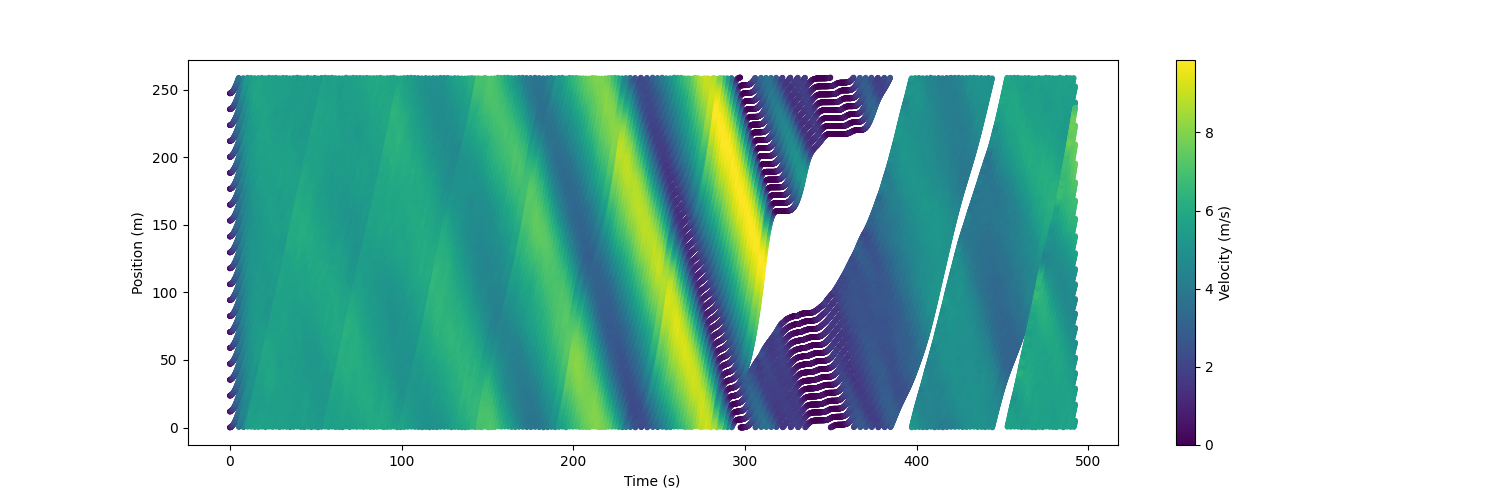
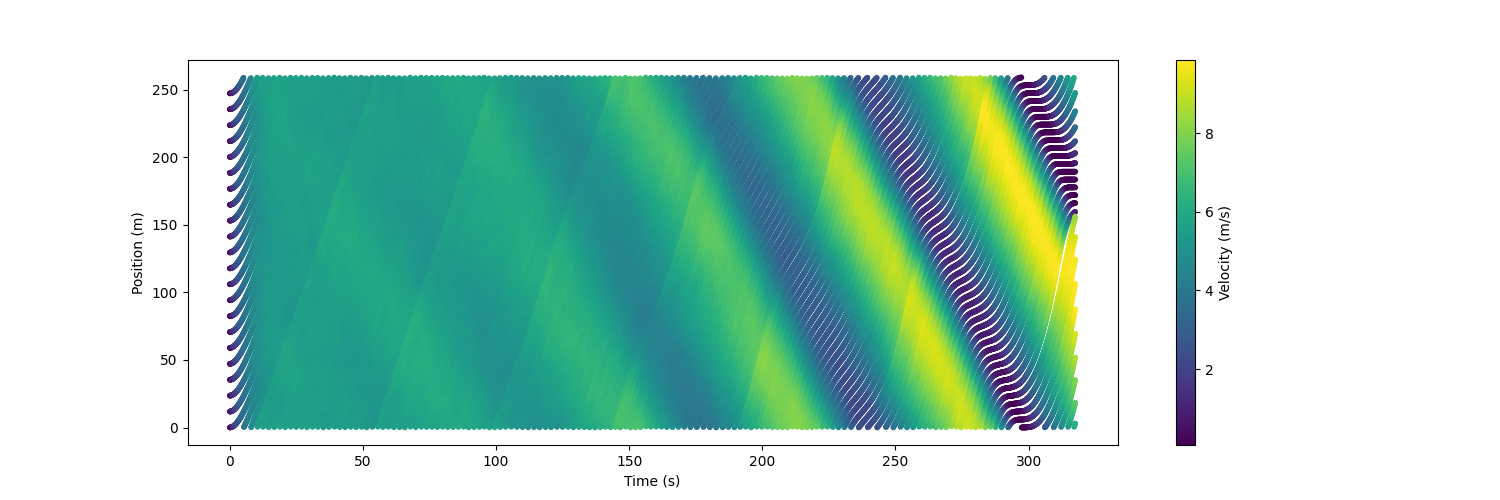
hyper params change

diff --git a/Ring_Road/metrics.py b/Ring_Road/metrics.py
@@ -107,7 +107,7 @@ class Metrics:
         elif self.env.algorithm == "ppo":
             plt.savefig("Plots/PPO/SpaceTimeSmoothed_New1.png")
         elif self.env.algorithm == "fs":
-            plt.savefig("Plots/FollowerStopper/SpaceTime_New1.png")
+            plt.savefig("Plots/FollowerStopper/SpaceTimeSmoothed_New1.png")
 
     def plot_velocities(self):
         plt.figure(figsize=(15, 5))
@@ -124,7 +124,7 @@ class Metrics:
         elif self.env.algorithm == "ppo":
             plt.savefig("Plots/PPO/VelocityProfileSmoothed_New1.png")
         elif self.env.algorithm == "fs":
-            plt.savefig("Plots/FollowerStopper/VelocityProfile_New1.png")
+            plt.savefig("Plots/FollowerStopper/VelocityProfileSmoothed_New1.png")
 
     def plot_avg_vel(self):
         plt.figure(figsize=(15, 5))
@@ -142,7 +142,7 @@ class Metrics:
         elif self.env.algorithm == "ppo":
             plt.savefig("Plots/PPO/AverageVelocitySmoothed_New1.png")
         elif self.env.algorithm == "fs":
-            plt.savefig("Plots/FollowerStopper/AverageVelocity_New1.png")
+            plt.savefig("Plots/FollowerStopper/AverageVelocitySmoothed_New1.png")
 
     def smooth(self, scalars: List[float], weight: float) -> List[float]:  # Weight between 0 and 1
         last = scalars[0]  # First value in the plot (first timestep)

diff --git a/main.py b/main.py
@@ -17,7 +17,7 @@ def main():
         scripts.train_dqn.evaluate("/home/vamsi/Documents/GitHub/RingRoad-RL/Models/DQN/DQNTrainer_2022-03-03_19-28-07/DQNTrainer_ringroad-v1_f4621_00000_0_2022-03-03_19-28-08/checkpoint_000488/checkpoint-488")
 
     elif args.type == "eval_ppo":
-        scripts.train_ppo.evaluate("/home/vamsi/Documents/GitHub/RingRoad-RL/Models/PPO/PPOTrainer_2022-03-16_10-05-24/PPOTrainer_ringroad-v1_7f3a7_00000_0_2022-03-16_10-05-24/checkpoint_000250/checkpoint-250")
+        scripts.train_ppo.evaluate("/home/vamsi/Documents/GitHub/RingRoad-RL/Models/PPO/PPOTrainer_2022-03-16_19-00-00/PPOTrainer_ringroad-v1_2dc8d_00000_0_2022-03-16_19-00-00/checkpoint_000250/checkpoint-250")
 
     elif args.type == "eval_idm":
         scripts.evaluate_idm.evaluate()

diff --git a/Ring_Road/vehicle/vehicle.py b/Ring_Road/vehicle/vehicle.py
@@ -89,7 +89,7 @@ class Agent(Car):
         delta_x1 = initial_x[0] + (1 / (2 * curvatures[0])) * (delta_v ** 2)
         delta_x2 = initial_x[1] + (1 / (2 * curvatures[1])) * (delta_v ** 2)
         delta_x3 = initial_x[2] + (1 / (2 * curvatures[2])) * (delta_v ** 2)
-        # v = min(max(v_lead, 0), self.desired_vel)
+        v = min(max(v_lead, 0), self.desired_vel)
         s = self.gap_front()
         v = v_lead
 

diff --git a/scripts/train_ppo.py b/scripts/train_ppo.py
@@ -29,7 +29,7 @@ config["num_gpus"] = 1
 config["num_workers"] = 8
 config["lr"] = 0.0001
 config["horizon"] = MAX_EPISODE_LENGTH + WARMUP_STEPS
-config["model"]["fcnet_hiddens"] = [32, 32, 32]
+config["model"]["fcnet_hiddens"] = [256, 256, 256]
 # config["clip_actions"] = True
 config["evaluation_interval"] = 2
 config["evaluation_duration"] = 20
